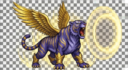
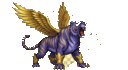
fix: 多項修正 — 動畫卡頓/選單重疊/抓寵機率/去背/獨斷萬古
- IntroScene: 修正點擊跳段時 killAll 會殺掉粒子動畫的問題，改用精準 tween 追蹤
- BootScene: 預渲染 serif 字體避免首次渲染卡頓
- BattleScene: 換寵/變身選單動態計算行高，避免文字溢出覆蓋返回按鈕
- battle.ts: 抓寵公式改用 (1-hpRatio)^1.5 曲線，低血量加成更明顯
- 窮奇/相柳/玄武共 16 張圖片去除棋盤格假透明背景
- 選單新增「獨斷萬古」測試按鈕，全隊 +99999 EXP

diff --git a/src/scenes/BattleScene.ts b/src/scenes/BattleScene.ts
@@ -346,7 +346,7 @@ export class BattleScene extends Phaser.Scene {
     if (this.battleType === 'wild') {
       const eTempl = getTemplate(this.enemyMonster.templateId);
       const hpRatio = this.enemyMonster.hp / this.enemyMonster.maxHp;
-      const estRate = eTempl.catchRate * (1 - hpRatio * 0.6) / 255;
+      const estRate = eTempl.catchRate * (0.3 + 1.0 * (1 - hpRatio) ** 1.5) / 255;
       const catchHint = estRate >= 0.5 ? '◎' : estRate >= 0.2 ? '○' : '△';
       actions.push({ icon: 'icon_capture', text: `捕獲${catchHint}`, action: () => this.tryCatch() });
       actions.push({ icon: 'icon_run', text: '逃跑', action: () => this.tryRun() });
@@ -1319,14 +1319,14 @@ export class BattleScene extends Phaser.Scene {
 
     const { width, height } = this.scale;
     const state = getState();
+    const others = state.team.map((m, i) => ({ m, i })).filter(({ i }) => i !== this.playerMonsterIndex);
+    const lineH = Math.min(16, Math.floor(70 / Math.max(others.length, 1)));
 
-    state.team.forEach((m, i) => {
-      if (i === this.playerMonsterIndex) return;
-      const slot = i > this.playerMonsterIndex ? i - 1 : i;
-      const y = height - 95 + slot * 16;
+    others.forEach(({ m, i }, slot) => {
+      const y = height - 95 + slot * lineH;
       const color = m.hp > 0 ? '#ffffff' : '#555555';
       const label = `${m.nickname} Lv.${m.level} HP:${m.hp}/${m.maxHp}`;
-      const btn = this.add.text(30, y, label, { fontSize: '14px', color })
+      const btn = this.add.text(30, y, label, { fontSize: '13px', color })
         .setInteractive({ useHandCursor: true });
 
       if (m.hp > 0) {
@@ -1704,11 +1704,13 @@ export class BattleScene extends Phaser.Scene {
 
     const maxVisible = 5;
     const listStartY = height - 95;
-    seenIds.slice(0, maxVisible).forEach((id, i) => {
+    const visibleIds = seenIds.slice(0, maxVisible);
+    const lineH = Math.min(14, Math.floor(70 / Math.max(visibleIds.length, 1)));
+    visibleIds.forEach((id, i) => {
       const template = MONSTERS.find(m => m.id === id);
       if (!template) return;
       const isCurrent = this.isTransformed && this.playerMonster.templateId === id;
-      const y = listStartY + i * 14;
+      const y = listStartY + i * lineH;
       const label = `${template.name}${isCurrent ? ' [當前]' : ''}`;
       const color = isCurrent ? '#555555' : '#cc66ff';
       const btn = this.add.text(30, y, label, { fontSize: '13px', color })
@@ -1761,8 +1763,9 @@ export class BattleScene extends Phaser.Scene {
     const { width, height } = this.scale;
     const state = getState();
 
+    const teamLineH = Math.min(14, Math.floor(70 / Math.max(state.team.length, 1)));
     state.team.forEach((m, i) => {
-      const y = height - 95 + i * 14;
+      const y = height - 95 + i * teamLineH;
       const color = m.hp > 0 ? '#ffffff' : '#555555';
       const label = `${m.nickname} Lv.${m.level} HP:${m.hp}/${m.maxHp}`;
       const btn = this.add.text(30, y, label, { fontSize: '13px', color })
@@ -1773,7 +1776,6 @@ export class BattleScene extends Phaser.Scene {
         btn.on('pointerout', () => btn.setColor(color));
         btn.on('pointerdown', () => {
           this.isAnimating = true;
-          // 解除變身，派出真正的靈寵
           this.isTransformed = false;
           this.transformedForm = null;
           this.playerMonsterIndex = i;

diff --git a/src/scenes/OverworldScene.ts b/src/scenes/OverworldScene.ts
@@ -1263,7 +1263,7 @@ export class OverworldScene extends Phaser.Scene {
     const container = this.add.container(0, 0);
     container.setScrollFactor(0).setDepth(200);
 
-    const bg = this.add.rectangle(camW / 2, camH / 2, 220, 255, 0x0a0a1a, 0.95);
+    const bg = this.add.rectangle(camW / 2, camH / 2, 220, 280, 0x0a0a1a, 0.95);
     bg.setStrokeStyle(2, 0xffcc44);
     container.add(bg);
 
@@ -1276,6 +1276,7 @@ export class OverworldScene extends Phaser.Scene {
       { icon: 'icon_absorb', text: '練化互吃', action: () => this.showAbsorptionMenu(container) },
       { icon: 'icon_absorb', text: '練妖壺', action: () => { container.destroy(); this.dialogueBox = null; this.showFusionMenu(); } },
       { icon: 'icon_pokedex', text: '靈獸圖鑑', action: () => this.showPokedex(container) },
+      { icon: 'icon_skill', text: '獨斷萬古', action: () => { this.debugGrantExp(container); } },
       { icon: 'icon_save', text: '儲存遊戲', action: () => { saveGame(); closeMenu(); this.showNotification('遊戲已儲存！', 0x44aaff); } },
       { icon: 'icon_close', text: '返回遊戲', action: () => closeMenu() },
     ];
@@ -1306,6 +1307,34 @@ export class OverworldScene extends Phaser.Scene {
       container.destroy();
       this.dialogueBox = null;
     };
+  }
+
+  // ═══════════════════════════════════
+  //  獨斷萬古（測試用：全隊 +99999 EXP）
+  // ═══════════════════════════════════
+  private debugGrantExp(parentContainer: Phaser.GameObjects.Container): void {
+    const state = getState();
+    const results: string[] = [];
+    for (const m of state.team) {
+      const oldLv = m.level;
+      let totalLevels = 0;
+      let remaining = 99999;
+      while (remaining > 0 && m.level < 42) {
+        const chunk = Math.min(remaining, 9999);
+        const r = applyExp(m, chunk);
+        remaining -= chunk;
+        if (r.leveled) totalLevels = r.newLevel - oldLv;
+      }
+      if (totalLevels > 0) {
+        results.push(`${m.nickname} Lv.${oldLv}→${m.level}`);
+      } else {
+        results.push(`${m.nickname} Lv.${m.level}(已滿)`);
+      }
+    }
+    recalcPlayerStats();
+    parentContainer.destroy();
+    this.dialogueBox = null;
+    this.showNotification(`獨斷萬古！\n${results.join(' ')}`, 0xff4488);
   }
 
   // ═══════════════════════════════════

diff --git a/src/scenes/IntroScene.ts b/src/scenes/IntroScene.ts
@@ -8,6 +8,8 @@ export class IntroScene extends Phaser.Scene {
   private storyLines: { text: string; delay: number; style?: Partial<Phaser.Types.GameObjects.Text.TextStyle> }[] = [];
   private currentLine = 0;
   private canSkip = false;
+  private storyTweens: Phaser.Tweens.Tween[] = [];
+  private storyTimers: Phaser.Time.TimerEvent[] = [];
 
   constructor() {
     super({ key: 'Intro' });
@@ -153,27 +155,33 @@ export class IntroScene extends Phaser.Scene {
     }).setOrigin(0.5).setAlpha(0).setDepth(5);
 
     // 淡入
-    this.tweens.add({
+    const fadeIn = this.tweens.add({
       targets: textObj, alpha: 1, duration: 800, ease: 'Power1',
       onComplete: () => {
         // 停留後淡出
-        this.time.delayedCall(2200, () => {
-          this.tweens.add({
+        const timer = this.time.delayedCall(2200, () => {
+          const fadeOut = this.tweens.add({
             targets: textObj, alpha: 0, duration: 600,
             onComplete: () => {
               textObj.destroy();
               this.showLine(index + 1);
             },
           });
+          this.storyTweens.push(fadeOut);
         });
+        this.storyTimers.push(timer);
       },
     });
+    this.storyTweens.push(fadeIn);
   }
 
   private advanceOrSkip(): void {
-    // 點擊加速：跳到下一句
+    // 點擊加速：跳到下一句（只清理劇情相關 tween/timer，保留粒子動畫）
     if (this.currentLine < this.storyLines.length - 1) {
-      this.tweens.killAll();
+      for (const t of this.storyTweens) { if (t.isPlaying()) t.stop(); }
+      for (const t of this.storyTimers) { t.remove(); }
+      this.storyTweens = [];
+      this.storyTimers = [];
       this.children.getAll().forEach(child => {
         if (child instanceof Phaser.GameObjects.Text && child.depth === 5) {
           child.destroy();

diff --git a/src/utils/battle.ts b/src/utils/battle.ts
@@ -122,7 +122,9 @@ export function applyBuffSkill(user: MonsterInstance, target: MonsterInstance, s
 export function calculateCatchRate(monster: MonsterInstance): boolean {
   const template = getTemplate(monster.templateId);
   const hpRatio = monster.hp / monster.maxHp;
-  const modifiedRate = template.catchRate * (1 - hpRatio * 0.6);
+  // 血量越低越好抓：滿血 ×0.3，半血 ×0.55，25% ×0.86，10% ×1.11，1% ≈1.28
+  const hpMul = 0.3 + 1.0 * (1 - hpRatio) ** 1.5;
+  const modifiedRate = template.catchRate * hpMul;
   const roll = Math.random() * 255;
   return roll < modifiedRate;
 }

diff --git a/src/scenes/BootScene.ts b/src/scenes/BootScene.ts
@@ -109,6 +109,12 @@ export class BootScene extends Phaser.Scene {
     this.anims.create({ key: 'player_idle_left', frames: [{ key: 'player', frame: 16 }], frameRate: 1 });
     this.anims.create({ key: 'player_idle_right', frames: [{ key: 'player', frame: 24 }], frameRate: 1 });
 
+    // 預渲染 serif 字體，避免 IntroScene 首次渲染卡頓
+    const warmup = this.add.text(-100, -100, '預熱', {
+      fontSize: '22px', fontFamily: 'serif', color: '#000000',
+    });
+    warmup.destroy();
+
     this.scene.start('Intro');
   }
 
